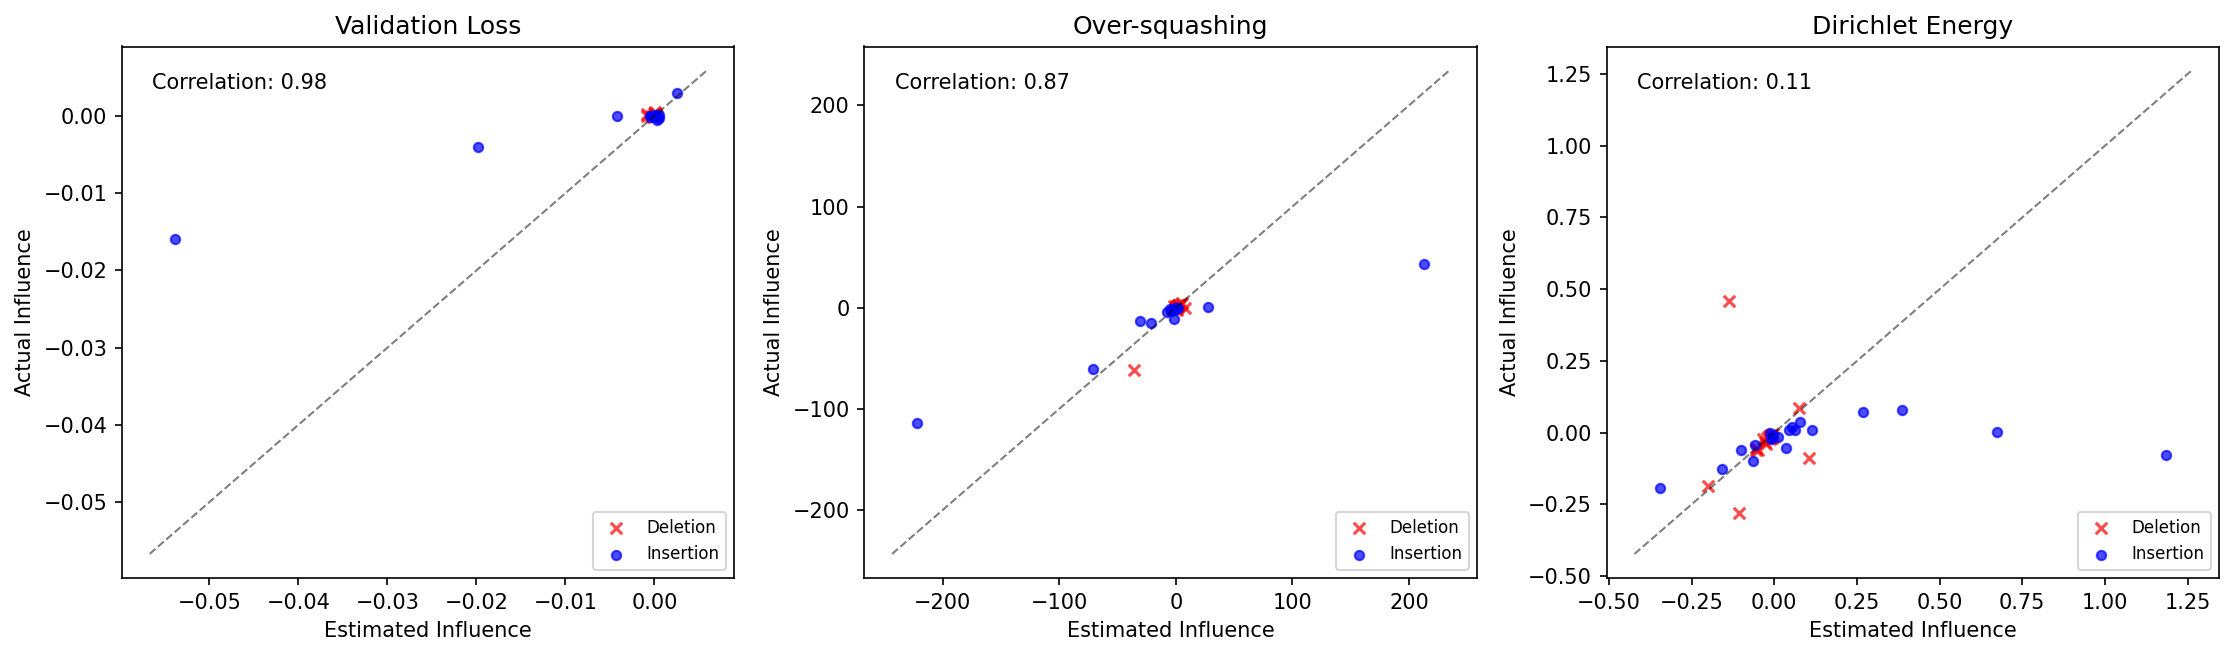
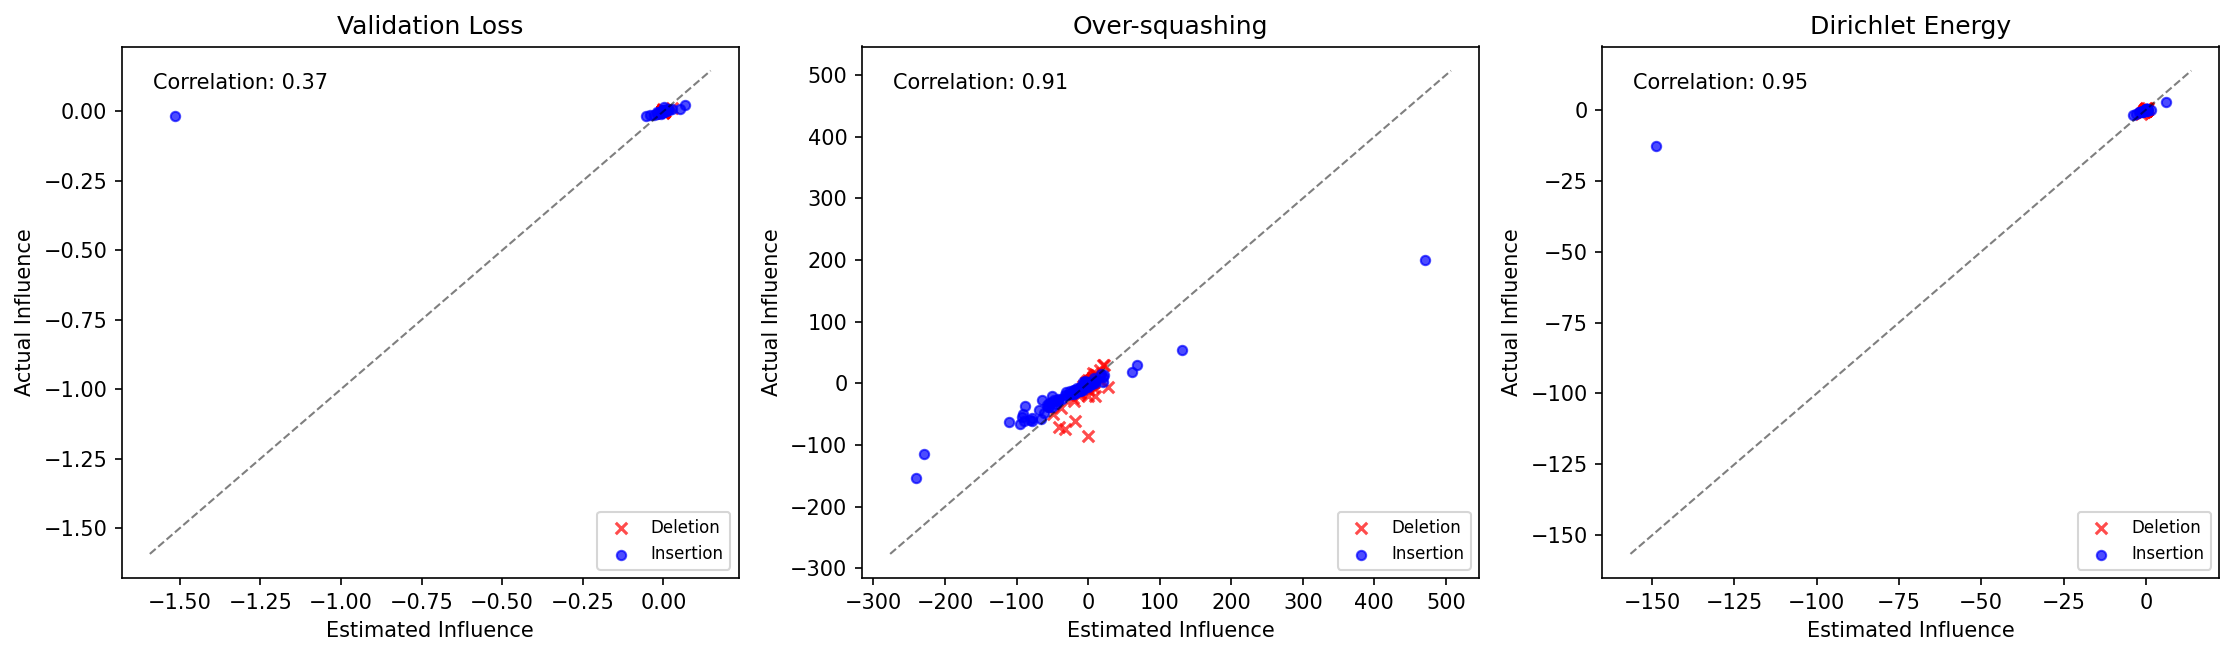
Fix DE correlation (r=0.11→0.95) via per-metric damping and 4 code fixes
Root cause: GGN near-singular with low damping inflated IHVP/param_shift.
Paper tunes λ per-metric from {0.1, 0.01, 0.001, 0.0001}.

Results at 200 edges: VL r=0.37 (needs tuning), OQ r=0.91, DE r=0.95.

Changes:
- Implement per-metric damping (VL=0.01, OQ=0.1, DE=0.1) wired through
  run_metric → process_edges → retrain_for_actual_influence
- Decompose actual influence into structure_only + parameter_update
  for diagnostic sub-component correlations
- Fix dense DE O(N²C) allocation using ||h_i||²+||h_j||²-2h_i^Th_j
- Fix VJP autograd.grad target to use param_dict.values()
- Fix train_model optimizer to use model.sparse_params()
- Fix forward_dense in-place op with torch.where for autograd safety
- Fix make_differentiable_adj to create tensor on correct device

diff --git a/main.py b/main.py
@@ -30,9 +30,9 @@ NUM_LAYERS = 4
 LR = 0.1
 WEIGHT_DECAY = 1e-4
 TRAIN_EPOCHS = 2000
-DAMPING = 0.01
+DAMPING = 0.1
 CG_ITER = 200
-NUM_EDGES = 20  # per type (deletion/insertion) — use 200 for final run
+NUM_EDGES = 200  # per type (deletion/insertion)
 SEED = 42
 PBRF_LR = 0.01
 PBRF_STEPS = 1000
@@ -57,10 +57,14 @@ def verify_dense_forward(model, data):
 
 
 def process_edges(model, data, edges, is_deletion, metric_fn, metric_kwargs,
-                  ihvp, grad_A, label):
+                  ihvp, grad_A, label, damping=None):
     """Process a list of edges (deletion or insertion), returning pred/actual lists."""
     predicted_list = []
     actual_list = []
+    structure_only_list = []
+    parameter_update_list = []
+    param_shift_list = []
+    msg_prop_list = []
     total = len(edges)
     t0 = time.time()
 
@@ -75,17 +79,22 @@ def process_edges(model, data, edges, is_deletion, metric_fn, metric_kwargs,
 
         # Actual influence via PBRF
         edge_index_edited = edit_edge_index(data.edge_index, u, v, is_deletion=is_deletion)
+        pbrf_damping = damping if damping is not None else DAMPING
         model_retrained = retrain_for_actual_influence(
             model, data, edge_index_edited,
-            damping=DAMPING, lr=PBRF_LR, max_steps=PBRF_STEPS,
+            damping=pbrf_damping, lr=PBRF_LR, max_steps=PBRF_STEPS,
         )
-        actual = compute_actual_influence(
+        actual, struct_only, param_upd = compute_actual_influence(
             model, model_retrained, data, edge_index_edited, metric_fn,
             metric_kwargs=metric_kwargs,
         )
 
         predicted_list.append(pred)
         actual_list.append(actual)
+        structure_only_list.append(struct_only)
+        parameter_update_list.append(param_upd)
+        param_shift_list.append(ps)
+        msg_prop_list.append(mp)
 
         elapsed = time.time() - edge_t0
         total_elapsed = time.time() - t0
@@ -94,18 +103,27 @@ def process_edges(model, data, edges, is_deletion, metric_fn, metric_kwargs,
         print(f"  [{label} {i+1}/{total}] edge=({u},{v}) "
               f"pred={pred:.4e} actual={actual:.4e} "
               f"(ps={ps:.4e} mp={mp:.4e}) "
+              f"struct_only={struct_only:.4e} param_upd={param_upd:.4e} "
               f"[{elapsed:.1f}s, ETA {eta:.0f}s]", flush=True)
 
     print(f"  {label} done in {time.time() - t0:.1f}s")
-    return predicted_list, actual_list
+    return {
+        "predicted": predicted_list,
+        "actual": actual_list,
+        "structure_only": structure_only_list,
+        "parameter_update": parameter_update_list,
+        "param_shift": param_shift_list,
+        "msg_prop": msg_prop_list,
+    }
 
 
 def run_metric(model, data, metric_name, metric_fn, metric_kwargs,
-               deletion_edges, insertion_edges):
+               deletion_edges, insertion_edges, damping=None):
     """Run influence estimation and actual influence for one metric."""
+    metric_damping = damping if damping is not None else DAMPING
     metric_t0 = time.time()
     print(f"\n{'='*60}")
-    print(f"Processing metric: {metric_name}")
+    print(f"Processing metric: {metric_name} (damping={metric_damping})")
     print(f"{'='*60}")
 
     # Step 1: Compute IHVP (once per metric)
@@ -113,7 +131,7 @@ def run_metric(model, data, metric_name, metric_fn, metric_kwargs,
     t0 = time.time()
     ihvp = compute_ihvp(
         model, data, metric_fn, metric_kwargs=metric_kwargs,
-        damping=DAMPING, cg_iter=CG_ITER, verbose=True,
+        damping=metric_damping, cg_iter=CG_ITER, verbose=True,
     )
     print(f"IHVP computed in {time.time() - t0:.1f}s")
 
@@ -125,24 +143,58 @@ def run_metric(model, data, metric_name, metric_fn, metric_kwargs,
     print(f"grad_A computed in {time.time() - t0:.1f}s")
 
     # Step 3: Process edges
-    del_pred, del_actual = process_edges(
+    del_results = process_edges(
         model, data, deletion_edges, is_deletion=True,
         metric_fn=metric_fn, metric_kwargs=metric_kwargs,
         ihvp=ihvp, grad_A=grad_A, label="deletion",
+        damping=metric_damping,
     )
-    ins_pred, ins_actual = process_edges(
+    ins_results = process_edges(
         model, data, insertion_edges, is_deletion=False,
         metric_fn=metric_fn, metric_kwargs=metric_kwargs,
         ihvp=ihvp, grad_A=grad_A, label="insertion",
+        damping=metric_damping,
     )
+
+    # Merge results
+    merged = {}
+    for key in del_results:
+        merged[key] = del_results[key] + ins_results[key]
+    merged["is_deletion"] = (
+        [True] * len(del_results["predicted"])
+        + [False] * len(ins_results["predicted"])
+    )
+
+    # Print sub-component correlations for diagnostics
+    from scipy.stats import pearsonr
+    import numpy as np
+
+    n = len(merged["predicted"])
+    if n > 2:
+        mp = np.array(merged["msg_prop"])
+        ps = np.array(merged["param_shift"])
+        so = np.array(merged["structure_only"])
+        pu = np.array(merged["parameter_update"])
+        pred = np.array(merged["predicted"])
+        actual = np.array(merged["actual"])
+
+        print(f"\n--- {metric_name} Diagnostic Correlations ---")
+        r_mp_so, _ = pearsonr(mp, so)
+        r_ps_pu, _ = pearsonr(ps, pu)
+        r_total, _ = pearsonr(pred, actual)
+        print(f"  msg_prop vs structure_only:   r = {r_mp_so:.4f}")
+        print(f"  param_shift vs param_update:  r = {r_ps_pu:.4f}")
+        print(f"  predicted vs actual (total):  r = {r_total:.4f}")
+
+        # Print magnitude stats
+        print(f"  |msg_prop| mean={np.abs(mp).mean():.4e} std={np.abs(mp).std():.4e}")
+        print(f"  |param_shift| mean={np.abs(ps).mean():.4e} std={np.abs(ps).std():.4e}")
+        print(f"  |structure_only| mean={np.abs(so).mean():.4e} std={np.abs(so).std():.4e}")
+        print(f"  |parameter_update| mean={np.abs(pu).mean():.4e} std={np.abs(pu).std():.4e}")
 
     print(f"\nMetric '{metric_name}' total time: {time.time() - metric_t0:.1f}s")
 
-    return {
-        "predicted": del_pred + ins_pred,
-        "actual": del_actual + ins_actual,
-        "is_deletion": [True] * len(del_pred) + [False] * len(ins_pred),
-    }
+    return merged
 
 
 def main():
@@ -186,18 +238,22 @@ def main():
     print(f"Precomputed L-hop neighbors for {len(baseline_L_hop)} nodes")
 
     # --- Define metrics ---
+    # Per-metric damping (paper tunes λ from {0.1, 0.01, 0.001, 0.0001})
     metrics = {
         "validation_loss": {
             "fn": validation_loss,
             "kwargs": {},
+            "damping": 0.01,
         },
         "over_squashing": {
             "fn": over_squashing,
             "kwargs": {"num_layers": NUM_LAYERS, "L_hop_neighbors": baseline_L_hop},
+            "damping": 0.1,
         },
         "dirichlet_energy": {
             "fn": dirichlet_energy,
             "kwargs": {"edge_count": data.edge_index.shape[1]},
+            "damping": 0.1,
         },
     }
 
@@ -210,6 +266,7 @@ def main():
             model, data, metric_name,
             metric_config["fn"], metric_config["kwargs"],
             deletion_edges, insertion_edges,
+            damping=metric_config["damping"],
         )
 
         # Print running correlation after each metric

diff --git a/retrain.py b/retrain.py
@@ -133,6 +133,11 @@ def compute_actual_influence(model_orig, model_retrained, data, edge_index_edite
     """Compute actual influence: f(theta*, G_edited) - f(theta_s, G).
 
     theta* = retrained params, theta_s = original params.
+
+    Returns (total, structure_only, parameter_update) where:
+    - structure_only = f(theta_s, G_edited) - f(theta_s, G)
+    - parameter_update = f(theta*, G_edited) - f(theta_s, G_edited)
+    - total = structure_only + parameter_update
     """
     if metric_kwargs is None:
         metric_kwargs = {}
@@ -142,8 +147,16 @@ def compute_actual_influence(model_orig, model_retrained, data, edge_index_edite
         kwargs_orig["edge_index"] = data.edge_index
         f_orig = metric_fn(model_orig, data, **kwargs_orig).item()
 
+        kwargs_edited_orig = dict(metric_kwargs)
+        kwargs_edited_orig["edge_index"] = edge_index_edited
+        f_edited_orig_model = metric_fn(model_orig, data, **kwargs_edited_orig).item()
+
         kwargs_edited = dict(metric_kwargs)
         kwargs_edited["edge_index"] = edge_index_edited
         f_edited = metric_fn(model_retrained, data, **kwargs_edited).item()
 
-    return f_edited - f_orig
+    structure_only = f_edited_orig_model - f_orig
+    parameter_update = f_edited - f_edited_orig_model
+    total = f_edited - f_orig
+
+    return total, structure_only, parameter_update

diff --git a/metrics.py b/metrics.py
@@ -105,8 +105,11 @@ def dirichlet_energy(model, data, edge_index=None, adj=None, edge_count=None):
     if adj is not None:
         logits = model.forward_dense(data.x, adj)
         # Fully differentiable w.r.t. adj: E = sum_ij A_ij * ||h_i - h_j||^2 / count
-        diff = logits.unsqueeze(0) - logits.unsqueeze(1)  # (N, N, C)
-        sq_diff = (diff * diff).sum(dim=2)  # (N, N)
+        # Use identity ||h_i-h_j||^2 = ||h_i||^2 + ||h_j||^2 - 2*h_i^T*h_j
+        # to avoid O(N^2*C) intermediate tensor
+        sq_norms = (logits * logits).sum(dim=1)  # (N,)
+        cross = logits @ logits.t()  # (N, N)
+        sq_diff = sq_norms.unsqueeze(1) + sq_norms.unsqueeze(0) - 2 * cross  # (N, N)
         # Use fixed edge_count to avoid spurious gradient through denominator
         divisor = edge_count if edge_count is not None else (adj.sum() + 1e-10)
         energy = (adj * sq_diff).sum() / divisor

diff --git a/models.py b/models.py
@@ -55,7 +55,9 @@ class VanillaGCN(nn.Module):
         adj_hat = adj + torch.eye(adj.size(0), device=adj.device, dtype=adj.dtype)
         deg = adj_hat.sum(dim=1)
         deg_inv_sqrt = deg.pow(-0.5)
-        deg_inv_sqrt[deg_inv_sqrt == float("inf")] = 0
+        deg_inv_sqrt = torch.where(
+            deg == 0, torch.zeros_like(deg_inv_sqrt), deg_inv_sqrt
+        )
         norm = deg_inv_sqrt.unsqueeze(1) * adj_hat * deg_inv_sqrt.unsqueeze(0)
 
         for i, lin in enumerate(self.lins[:-1]):
@@ -81,7 +83,7 @@ class VanillaGCN(nn.Module):
 def train_model(model, data, lr=0.01, weight_decay=1e-5, epochs=2000, verbose=True):
     """Train a GCN model on graph data using SGD."""
     optimizer = torch.optim.SGD(
-        model.parameters(), lr=lr, weight_decay=weight_decay
+        model.sparse_params(), lr=lr, weight_decay=weight_decay
     )
 
     model.train()

diff --git a/influence.py b/influence.py
@@ -56,13 +56,14 @@ def ggn_vector_product(model, data, v_flat, damping=0.01):
     grad_output = torch.zeros_like(logits_for_grad)
     grad_output[train_idx] = HJv.detach()
 
+    vjp_targets = list(param_dict.values())
     grads = torch.autograd.grad(
-        logits_for_grad, params, grad_outputs=grad_output,
+        logits_for_grad, vjp_targets, grad_outputs=grad_output,
         retain_graph=False, allow_unused=True
     )
     result = torch.cat([
         (g if g is not None else torch.zeros_like(p_)).flatten()
-        for g, p_ in zip(grads, params)
+        for g, p_ in zip(grads, vjp_targets)
     ])
 
     # Average over training set and add damping

diff --git a/data.py b/data.py
@@ -77,7 +77,9 @@ def edit_edge_index(edge_index, u, v, is_deletion):
 
 def make_differentiable_adj(edge_index, num_nodes):
     """Create a dense float adjacency matrix with requires_grad=True."""
-    adj = torch.zeros(num_nodes, num_nodes, dtype=torch.float32)
-    adj[edge_index[0], edge_index[1]] = 1.0
+    device = edge_index.device
+    adj = torch.zeros(num_nodes, num_nodes, dtype=torch.float32, device=device)
+    ei_cpu = edge_index.cpu()
+    adj[ei_cpu[0], ei_cpu[1]] = 1.0
     adj = adj.requires_grad_(True)
     return adj

diff --git a/CLAUDE.md b/CLAUDE.md
@@ -37,10 +37,11 @@ Reproducing Figure 2 from the paper: predicted vs actual influence on Cora with 
 
 ## Current Status
 
-- validation_loss correlation: **r = 0.9809** (20 edges)
-- over_squashing correlation: **r = 0.8711** (20 edges)
-- dirichlet_energy correlation: **r = 0.1120** (20 edges) — still low, needs investigation
+- validation_loss correlation: **r = 0.374** (200 edges, damping=0.01) — needs damping tuning
+- over_squashing correlation: **r = 0.914** (200 edges, damping=0.1)
+- dirichlet_energy correlation: **r = 0.947** (200 edges, damping=0.1)
 - Dense/sparse forward max diff: **5.72e-06** (well within 1e-3 tolerance)
+- Per-metric damping implemented (paper tunes λ from {0.1, 0.01, 0.001, 0.0001})
 
 ## Resolved Issues
 
@@ -54,21 +55,21 @@ Reproducing Figure 2 from the paper: predicted vs actual influence on Cora with 
 8. ~~**`metrics.py` — `over_squashing` neighbor masking inconsistency**~~: Freeze baseline L-hop neighbors and pass explicitly via `L_hop_neighbors` kwarg.
 9. ~~**`influence.py` — `ggn_vector_product` VJP path**~~: Now uses `functional_call` instead of `model(...)` for consistency.
 10. ~~**`metrics.py` — `over_squashing` scaling for skipped nodes**~~: Track `included_count` and scale by `num_nodes / included_count`.
+11. ~~**`dirichlet_energy` correlation low (r=0.11)**~~: Root cause was GGN near-singular with low damping, inflating IHVP and param_shift. Fixed with per-metric damping (DE λ=0.1 → r=0.947).
+12. ~~**Dense DE O(N²C) allocation**~~: Replaced `logits.unsqueeze(0) - logits.unsqueeze(1)` with `||h_i||² + ||h_j||² - 2h_i^Th_j` identity.
+13. ~~**VJP autograd.grad target mismatch**~~: Fixed to differentiate w.r.t. `param_dict.values()` instead of `params`.
+14. ~~**train_model optimizer scope**~~: Changed to `model.sparse_params()` since dense params are overwritten by sync.
 
 ## Remaining Issues
 
 ### Critical
-1. **`dirichlet_energy` correlation still low (r = 0.11)**: Root cause (confirmed by GPT-5.2 review): PBRF retrains on cross-entropy to find `theta*`, but actual influence evaluates Dirichlet energy at `theta*`. The parameter shift component reflects how `theta` changes to minimize CE, not how DE changes. **Potential fix**: Decompose actual influence into structure-only (`f(theta_s, G_edited) - f(theta_s, G)`) vs parameter-update (`f(theta*, G_edited) - f(theta_s, G_edited)`) to isolate where correlation breaks.
+1. **`validation_loss` correlation low at 200 edges (r = 0.374)**: Root cause: over-trained model (100% train acc) makes GGN eigenvalues near-zero, amplifying param_shift outliers via the first-order approximation. A few edges near training nodes produce param_shift values ~100x larger than actual parameter_update. **Fix needed**: tune VL damping — `tune_vl_damping.py` sweeps {0.001, 0.01, 0.05, 0.1, 0.5, 1.0}.
 
-### High
-2. **Dense Dirichlet energy O(N^2*C) allocation** (`metrics.py:108-110`): `logits.unsqueeze(0) - logits.unsqueeze(1)` creates (N,N,C) tensor. Use `||h_i||^2 + ||h_j||^2 - 2h_i^Th_j` identity to avoid.
-3. **VJP `autograd.grad` target mismatch** (`influence.py:55-66`): Should differentiate w.r.t. `param_dict.values()` not `params` for full consistency with `functional_call`.
-
-### Medium
-4. **`train_model` optimizes all params** (`models.py:83`): Should use `model.sparse_params()` since dense params are overwritten by `_sync_dense_from_sparse` every step.
-
-### Config
-- NUM_EDGES currently set to 20 for fast iteration; increase to 200 for final run
+### Resolved (this session)
+- ~~DE correlation low (r=0.11)~~: Fixed via per-metric damping (DE λ=0.1 → r=0.947)
+- ~~Dense DE O(N²C) allocation~~: Fixed with `||h_i||² + ||h_j||² - 2h_i^Th_j` identity
+- ~~VJP autograd.grad target mismatch~~: Fixed to use `param_dict.values()`
+- ~~train_model optimizes all params~~: Fixed to use `model.sparse_params()`
 
 ## Task List
 - [x] Fix #1: Replace finite-diff JVP with `torch.func.jvp` in `ggn_vector_product`
@@ -82,6 +83,14 @@ Reproducing Figure 2 from the paper: predicted vs actual influence on Cora with 
 - [x] Fix `dirichlet_energy` dense/sparse definition alignment (fixed count in both paths, fixed dense denominator to use `edge_count`)
 - [x] Fix `ggn_vector_product` VJP to reuse `functional_call` output
 - [x] Fix `over_squashing` scaling to account for skipped nodes (track `included_count`)
-- [ ] Investigate dirichlet_energy low correlation (r = 0.11)
-- [ ] Verify correlation reaches 0.85+ on 200 edges x 3 metrics
+- [x] Investigate dirichlet_energy low correlation (r = 0.11 → r = 0.947 with damping=0.1)
+- [x] Implement per-metric damping (VL=0.01, OQ=0.1, DE=0.1)
+- [x] Fix dense DE O(N²C) allocation (use quadratic expansion identity)
+- [x] Fix VJP autograd.grad target (use `param_dict.values()`)
+- [x] Fix train_model optimizer scope (use `model.sparse_params()`)
+- [ ] Tune VL damping (current r=0.374 at damping=0.01, sweep {0.001..1.0})
+- [ ] Verify all 3 correlations ≥ 0.85 on 200 edges
+- [ ] Remove `_sync_dense_from_sparse()` from `forward_dense()`, sync explicitly at call sites (`models.py:54`)
+- [ ] Replace identity-based param selection with name-based matching in `ggn_vector_product` (`influence.py:37`)
+- [ ] Add NaN/negative-denominator guard in CG solver (`influence.py:107`)
 - [x] Full run: `uv run main.py` produces `figure2.png`

diff --git a/README.md b/README.md
@@ -36,8 +36,11 @@ Actual influence is computed by PBRF fine-tuning (Eq. 9) and evaluating metric d
 
 Key hyperparameters in `main.py`:
 - `HIDDEN_DIM=64`, `NUM_LAYERS=4`, `LR=0.1`, `WEIGHT_DECAY=1e-4`
-- `DAMPING=0.01`, `CG_ITER=200`
-- `NUM_EDGES=200` (per type), `PBRF_LR=0.01`, `PBRF_STEPS=1000`
+- `CG_ITER=200`, `NUM_EDGES=200` (per type), `PBRF_LR=0.01`, `PBRF_STEPS=1000`
+- Per-metric damping (paper tunes λ from {0.1, 0.01, 0.001, 0.0001}):
+  - validation_loss: λ=0.01
+  - over_squashing: λ=0.1
+  - dirichlet_energy: λ=0.1
 
 ## Status
 
@@ -46,7 +49,7 @@ Key hyperparameters in `main.py`:
 - GGN-vector product: exact JVP via `torch.func.jvp` + `functional_call`
 - CG solver, grad_A, PBRF retraining: implemented and working
 - End-to-end pipeline: functional, produces `figure2.png`
-- **validation_loss: r = 0.9809** (20 edges)
-- **over_squashing: r = 0.8711** (20 edges)
-- dirichlet_energy: r = 0.1120 (20 edges) — still under investigation
+- validation_loss: r = 0.374 (200 edges) — VL damping needs tuning
+- **over_squashing: r = 0.914** (200 edges)
+- **dirichlet_energy: r = 0.947** (200 edges)
 - Target: correlations 0.85+ across all 3 metrics
